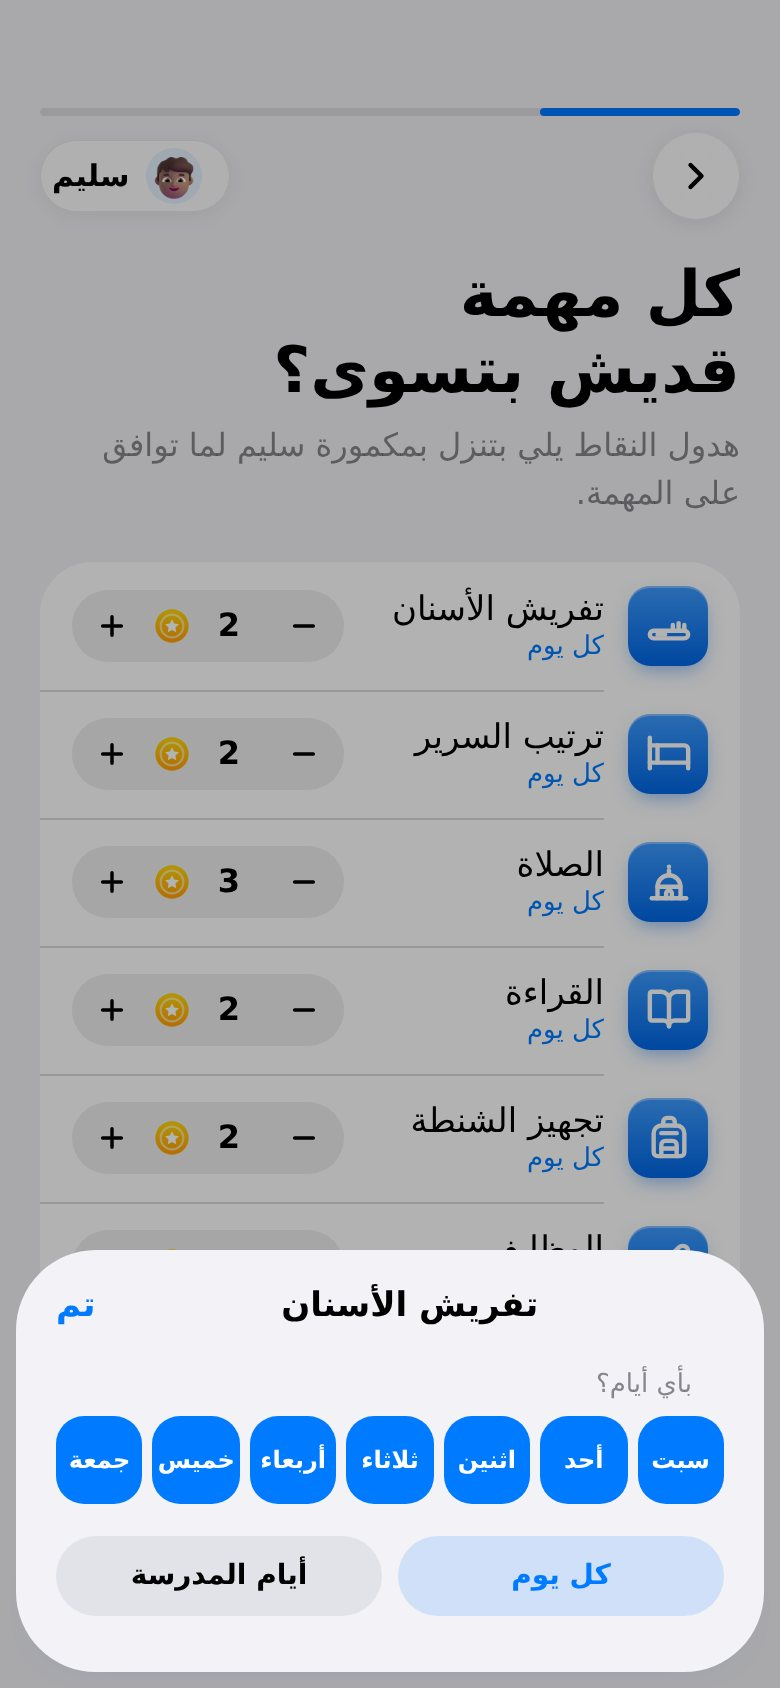
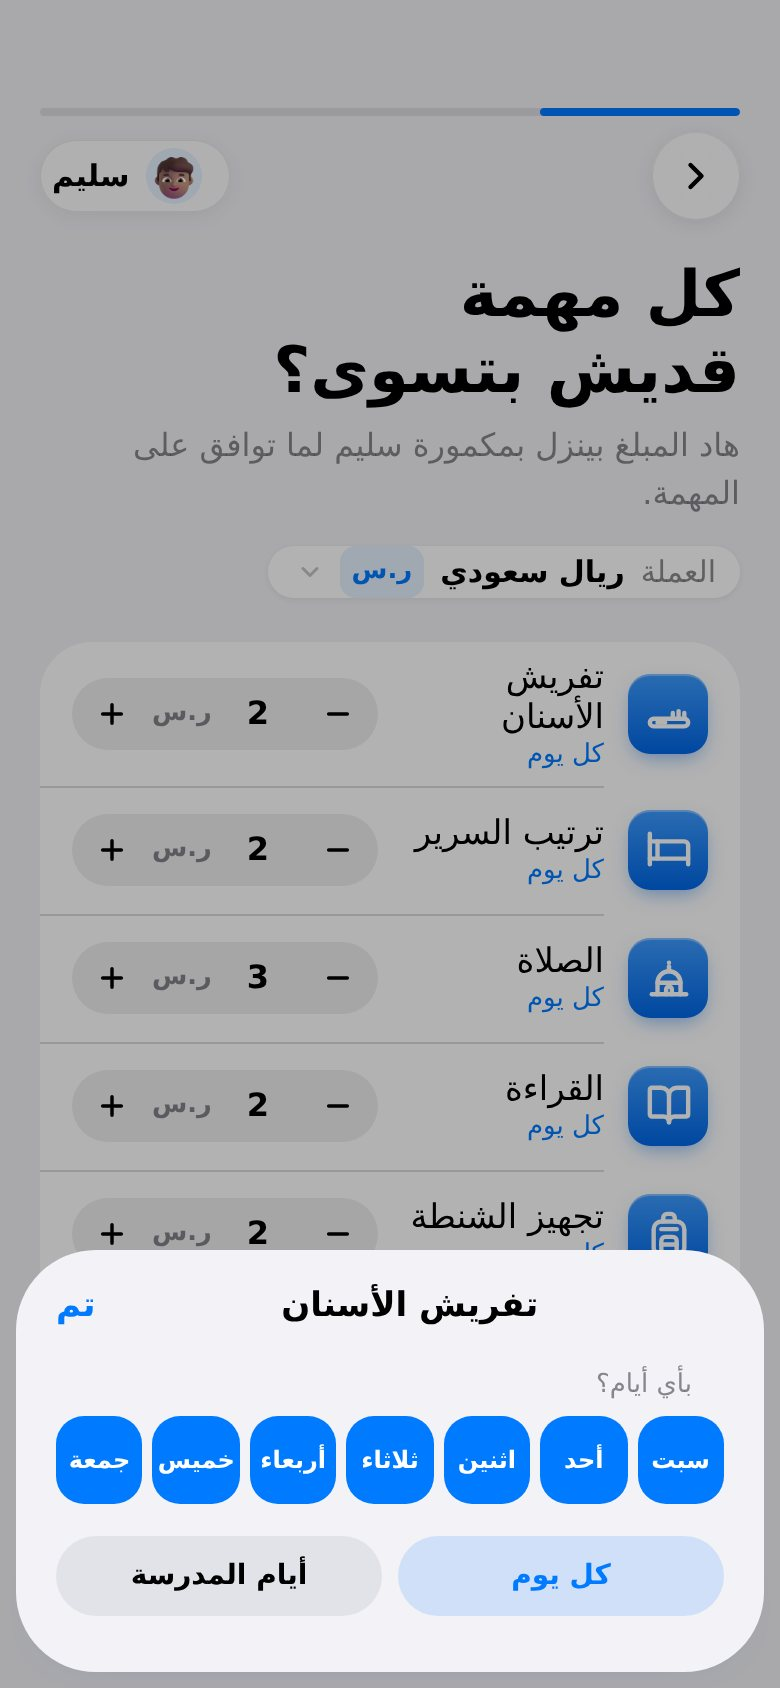
Task values are real money in the family's currency
- Currency chip on the values screen, preset from the device region;
  a sheet lists the most used currencies first (USD, SAR, AED, QAR, KWD,
  EUR, JOD, EGP, TRY), then all others, with search.
- Task values, the daily total, dream targets and the summary show the
  currency symbol instead of a points coin; decimals are allowed.
- Refreshed docs/screens.

Claude-Session: https://claude.ai/code/session_01RDAVNZzgeCwRhwwmPPkyYB

diff --git a/prototype/screens/02-tasks-setup.html b/prototype/screens/02-tasks-setup.html
@@ -114,6 +114,28 @@ h1{margin:14px 0 0;font-size:32px;font-weight:700;letter-spacing:-.01em;line-hei
 @keyframes added{0%{transform:scale(1)}40%{transform:scale(1.18)}100%{transform:scale(1)}}
 @keyframes tick{0%{transform:scale(0)}100%{transform:scale(1)}}
 .addbtn{height:44px;margin-top:12px}
+/* currency */
+.curchip{align-self:flex-start;margin-top:14px;display:flex;align-items:center;gap:8px;height:40px;padding:0 12px 0 14px;border-radius:99px;background:#fff;font-size:15px;box-shadow:0 1px 3px rgba(0,0,0,.06)}
+.curchip span{color:var(--label-2)}
+.curchip b{font-weight:600}
+.curchip .cs{min-width:28px;height:26px;padding:0 6px;border-radius:8px;background:rgba(0,122,255,.1);color:var(--blue);display:grid;place-items:center;font-weight:700;font-size:13px}
+.curchip svg{width:14px;height:14px;color:var(--label-3);transform:rotate(90deg)}
+.money{font-weight:600;font-variant-numeric:tabular-nums;white-space:nowrap}
+.money .sym,.stepper .sym{font-size:.8em;color:var(--label-2);font-weight:600}
+.bigsym{font-size:22px;font-weight:700;color:var(--label-2)}
+.search{display:flex;align-items:center;gap:8px;height:40px;padding:0 12px;border-radius:12px;background:rgba(118,118,128,.14);margin-top:4px}
+.search svg{width:16px;height:16px;color:var(--label-3)}
+.search input{flex:1;border:0;background:none;outline:none;font:17px var(--font)}
+.clist{margin-top:0}
+.crow{display:flex;align-items:center;gap:12px;width:100%;min-height:56px;padding:6px 16px;text-align:start;position:relative}
+.crow + .crow::before{content:"";position:absolute;top:0;inset-inline:64px 0;height:.5px;background:var(--sep)}
+.csym{width:36px;height:36px;border-radius:10px;background:rgba(0,122,255,.1);color:var(--blue);display:grid;place-items:center;font-weight:700;font-size:14px;flex:none}
+.crow .t{flex:1}
+.crow .t b{display:block;font-size:17px;font-weight:500}
+.crow .t span{display:block;font-size:13px;color:var(--label-2)}
+.crow .tick{color:var(--blue)}
+.crow .tick svg{width:18px;height:18px}
+.stepper .v{min-width:72px}
 /* grouped list */
 .group{margin-top:22px;background:#fff;border-radius:26px;overflow:hidden;flex:none}
 .row{display:flex;align-items:center;gap:12px;min-height:64px;padding:8px 16px;position:relative;width:100%;text-align:start}
@@ -126,7 +148,7 @@ h1{margin:14px 0 0;font-size:32px;font-weight:700;letter-spacing:-.01em;line-hei
 .stepper button:active{background:rgba(118,118,128,.2)}
 .stepper button svg{width:16px;height:16px}
 .stepper .v{min-width:56px;display:flex;align-items:center;justify-content:center;gap:3px}
-.stepper input{width:34px;border:0;background:none;outline:none;text-align:center;font:600 16px var(--font);font-variant-numeric:tabular-nums;padding:0;-moz-appearance:textfield}
+.stepper input{width:40px;border:0;background:none;outline:none;text-align:center;font:600 16px var(--font);font-variant-numeric:tabular-nums;padding:0;-moz-appearance:textfield}
 .stepper input:focus{background:#fff;border-radius:8px}
 input::-webkit-outer-spin-button,input::-webkit-inner-spin-button{-webkit-appearance:none;margin:0}
 .coin{width:18px;height:18px;flex:none}
@@ -250,7 +272,7 @@ const IC = {"bed":"<path d=\"M2 4v16\" /><path d=\"M2 8h18a2 2 0 0 1 2 2v10\" />
 IC.toothbrush='<rect x="2" y="15" width="20" height="4" rx="2"/><path d="M14 15v-3"/><path d="M17 15v-4"/><path d="M20 15v-3"/><path d="M6 17h4"/>';
 IC.mosque='<path d="M3 21h18"/><path d="M6 21v-6h12v6"/><path d="M6 15a6 6 0 0 1 12 0"/><path d="M12 9V6.5"/><path d="M12 4.5v.01"/><path d="M10.5 21v-2.5a1.5 1.5 0 0 1 3 0V21"/>';
 IC.check='<path d="M20 6 9 17l-5-5"/>'; IC.plus='<path d="M12 5v14M5 12h14"/>'; IC.minus='<path d="M5 12h14"/>';
-IC.chev='<path d="m9 18 6-6-6-6"/>'; IC.x='<path d="M18 6 6 18M6 6l12 12"/>';
+IC.chev='<path d="m9 18 6-6-6-6"/>'; IC.search='<circle cx="11" cy="11" r="7"/><path d="m20 20-3.5-3.5"/>'; IC.x='<path d="M18 6 6 18M6 6l12 12"/>';
 const ic=(n,w=2.4)=>`<svg class="i" viewBox="0 0 24 24" fill="none" stroke="currentColor" stroke-width="${w}" stroke-linecap="round" stroke-linejoin="round" aria-hidden="true">${IC[n]||''}</svg>`;
 const coin=(cls='coin')=>`<svg class="${cls}" aria-hidden="true"><use href="#coin"/></svg>`;
 const glyph=(icon,c,sm='')=>`<span class="glyph ${sm}" style="--c:${c}">${ic(icon,2.3)}</span>`;
@@ -318,6 +340,22 @@ const TASK_WORDS=[
   [/رياضة|مشي|ركض|تمارين|سباحة/,'footprints'],[/طابة|كرة|فوتبول/,'volleyball'],
 ];
 function taskIconFor(name){ for(const [re,icon] of TASK_WORDS) if(re.test(name)) return icon; return 'sparkles'; }
+const CURRENCIES=[
+  // most used by our families first
+  {c:'USD',n:'دولار أمريكي',s:'$',top:1},{c:'SAR',n:'ريال سعودي',s:'ر.س',top:1},{c:'AED',n:'درهم إماراتي',s:'د.إ',top:1},
+  {c:'QAR',n:'ريال قطري',s:'ر.ق',top:1},{c:'KWD',n:'دينار كويتي',s:'د.ك',top:1},{c:'EUR',n:'يورو',s:'€',top:1},
+  {c:'JOD',n:'دينار أردني',s:'د.أ',top:1},{c:'EGP',n:'جنيه مصري',s:'ج.م',top:1},{c:'TRY',n:'ليرة تركية',s:'₺',top:1},
+  {c:'BHD',n:'دينار بحريني',s:'د.ب'},{c:'OMR',n:'ريال عماني',s:'ر.ع'},{c:'GBP',n:'جنيه إسترليني',s:'£'},
+  {c:'MAD',n:'درهم مغربي',s:'د.م'},{c:'TND',n:'دينار تونسي',s:'د.ت'},{c:'DZD',n:'دينار جزائري',s:'د.ج'},
+  {c:'IQD',n:'دينار عراقي',s:'د.ع'},{c:'LBP',n:'ليرة لبنانية',s:'ل.ل'},{c:'SYP',n:'ليرة سورية',s:'ل.س'},
+  {c:'LYD',n:'دينار ليبي',s:'د.ل'},{c:'SDG',n:'جنيه سوداني',s:'ج.س'},{c:'YER',n:'ريال يمني',s:'ر.ي'},
+  {c:'CAD',n:'دولار كندي',s:'C$'},{c:'AUD',n:'دولار أسترالي',s:'A$'},{c:'CHF',n:'فرنك سويسري',s:'CHF'},
+  {c:'SEK',n:'كرونة سويدية',s:'kr'},{c:'MYR',n:'رينغيت ماليزي',s:'RM'},{c:'PKR',n:'روبية باكستانية',s:'₨'},{c:'INR',n:'روبية هندية',s:'₹'},
+];
+let currency='SAR';   // in the app: from the device region (Locale.current.currency), changeable here and in Settings
+const CUR=()=>CURRENCIES.find(x=>x.c===currency);
+const fmt=n=>(Math.round(n*100)/100).toString();
+const money=(n,cls='')=>`<span class="money ${cls}">${fmt(n)} <span class="sym">${esc(CUR().s)}</span></span>`;
 const DAYS=['سبت','أحد','اثنين','ثلاثاء','أربعاء','خميس','جمعة'];
 const SCHOOL=[1,1,1,1,1,0,0].map(Boolean), EVERY=Array(7).fill(true);
 
@@ -358,11 +396,12 @@ function valuesScreen(i){
   const k=kids[i];
   return `${nav(i)}
     <h1>كل مهمة قديش بتسوى؟</h1>
-    <div class="sub">هدول النقاط يلي بتنزل بمكمورة ${esc(k.name)} لما توافق على المهمة.</div>
+    <div class="sub">هاد المبلغ بينزل بمكمورة ${esc(k.name)} لما توافق على المهمة.</div>
+    <button class="curchip" data-currency><span>العملة</span><b>${esc(CUR().n)}</b><span class="cs">${esc(CUR().s)}</span>${ic('chev',2.6)}</button>
     <div class="group">${k.tasks.map((t,n)=>`<div class="row">${glyph(t.icon,t.c,'sm')}
       <button class="t" data-days="${n}" style="text-align:start"><b>${esc(t.name)}</b><span>${daysLabel(t.days)}</span></button>
-      <span class="stepper"><button data-val="${n}" data-d="-1" aria-label="أقل">${ic('minus',2.6)}</button><span class="v"><input type="number" inputmode="numeric" min="0" max="999" value="${t.value}" data-valin="${n}" aria-label="نقاط ${esc(t.name)}">${coin()}</span><button data-val="${n}" data-d="1" aria-label="أكتر">${ic('plus',2.6)}</button></span></div>`).join('')}</div>
-    <div class="total">بيقدر يجمع لحد <b id="perday">${perDay(k)}</b><b>${coin()}</b> باليوم</div>
+      <span class="stepper"><button data-val="${n}" data-d="-1" aria-label="أقل">${ic('minus',2.6)}</button><span class="v"><input type="number" inputmode="decimal" min="0" max="9999" step="any" value="${fmt(t.value)}" data-valin="${n}" aria-label="قيمة ${esc(t.name)}"><span class="sym">${esc(CUR().s)}</span></span><button data-val="${n}" data-d="1" aria-label="أكتر">${ic('plus',2.6)}</button></span></div>`).join('')}</div>
+    <div class="total">بيقدر يجمع لحد <b><span id="perday">${fmt(perDay(k))}</span> ${esc(CUR().s)}</b> باليوم</div>
     <div class="bottom"><button class="btn filled" data-next>التالي</button></div>`;
 }
 function goalScreen(i){
@@ -375,7 +414,7 @@ function goalScreen(i){
     ${g?`<div class="namerow"><label for="gname">الهدف</label><input id="gname" value="${esc(g.name)}" placeholder="مثلاً: بلاي ستيشن" data-gname autocomplete="off"><span id="gicon">${glyph(g.icon,g.c,'sm')}</span></div>
       ${g.id==='custom'?`<div class="autonote">${ic('sparkles')}بنختار الأيقونة حسب الاسم</div>`:''}
       <div class="amount"><span class="lbl">بيحتاج يجمع</span>
-        <div class="big"><button data-amt="-10" aria-label="أقل">${ic('minus',2.6)}</button><span class="n"><input type="number" inputmode="numeric" min="1" max="99999" value="${g.amount}" id="gamount" aria-label="قديش بيحتاج">${coin()}</span><button data-amt="10" aria-label="أكتر">${ic('plus',2.6)}</button></div>
+        <div class="big"><button data-amt="-10" aria-label="أقل">${ic('minus',2.6)}</button><span class="n"><input type="number" inputmode="decimal" min="1" max="999999" step="any" value="${fmt(g.amount)}" id="gamount" aria-label="قديش بيحتاج"><span class="bigsym">${esc(CUR().s)}</span></span><button data-amt="10" aria-label="أكتر">${ic('plus',2.6)}</button></div>
         <span class="eta" id="eta">${etaText(k)}</span></div>`:''}
     <div class="bottom"><button class="btn filled" data-next ${g&&!g.name.trim()?'disabled':''}>${!g?'تخطّى هلأ':i<kids.length-1?`التالي: ${esc(kids[i+1].name)}`:'خلصنا'}</button>
       ${g?'':'<div class="hint">فيك تحدده بعدين مع '+esc(k.name)+'</div>'}</div>`;
@@ -389,8 +428,8 @@ function readyScreen(){
     ${kids.map(k=>{const d=k.goal?Math.ceil(k.goal.amount/Math.max(1,perDay(k))):0;return `<article class="brief">
       <header>${kav(k,'big')}<div class="hn"><b>${esc(k.name)}</b><span>${k.age} ${k.age>10?'سنة':'سنين'} · ${k.tasks.length} مهام باليوم</span></div>
         ${approved?`<span class="ok-badge">${ic('check',3)}معتمد</span>`:`<button class="edit" data-edit="${kids.indexOf(k)}">تعديل</button>`}</header>
-      <ul>${k.tasks.map(t=>`<li>${glyph(t.icon,t.c,'sm')}<span class="tn">${esc(t.name)}</span><span class="pts">${t.value}${coin()}</span></li>`).join('')}</ul>
-      ${k.goal?`<div class="dream">${glyph(k.goal.icon,k.goal.c,'sm')}<div><b>بيحلم بـ${esc(k.goal.name||'هدفه')}</b><span>${k.goal.amount} نقطة · تقريباً ${d} ${d>2&&d<11?'أيام':'يوم'}</span></div></div>`
+      <ul>${k.tasks.map(t=>`<li>${glyph(t.icon,t.c,'sm')}<span class="tn">${esc(t.name)}</span><span class="pts">${money(t.value)}</span></li>`).join('')}</ul>
+      ${k.goal?`<div class="dream">${glyph(k.goal.icon,k.goal.c,'sm')}<div><b>بيحلم بـ${esc(k.goal.name||'هدفه')}</b><span>${fmt(k.goal.amount)} ${esc(CUR().s)} · تقريباً ${d} ${d>2&&d<11?'أيام':'يوم'}</span></div></div>`
         :`<div class="dream muted"><div><b>لسا ما في حلم</b><span>حدّدوه سوا من الصفحة الرئيسية</span></div></div>`}
     </article>`}).join('')}
     <div class="bottom">${approved?`<button class="btn filled">للصفحة الرئيسية</button>`:`<button class="btn filled" data-approve>اعتماد المهام</button><div class="hint">بتقدر تعدّل أي شي بعدين من الإعدادات</div>`}</div>`;
@@ -434,6 +473,21 @@ function addSheet(){
     <div class="autonote">${ic('sparkles')}بنختار الأيقونة حسب الاسم</div>
     <button class="btn filled" data-addtask ${d.name.trim()?'':'disabled'}>إضافة «${esc(d.name.trim()||'المهمة')}»</button>`);
 }
+function currencySheet(q=''){
+  const norm=x=>x.replace(/[أإآ]/g,'ا').toLowerCase();
+  const hit=x=>!q||norm(x.n).includes(norm(q))||x.c.toLowerCase().includes(q.toLowerCase());
+  const row=x=>`<button class="crow" data-cur="${x.c}" aria-pressed="${x.c===currency}"><span class="csym">${esc(x.s)}</span><span class="t"><b>${esc(x.n)}</b><span>${x.c}</span></span>${x.c===currency?`<span class="tick">${ic('check',3)}</span>`:''}</button>`;
+  const top=CURRENCIES.filter(x=>x.top&&hit(x)), rest=CURRENCIES.filter(x=>!x.top&&hit(x)).sort((a,b)=>a.n.localeCompare(b.n,'ar'));
+  const body=`${top.length?`<div class="slabel">الأكثر استخداماً</div><div class="group clist">${top.map(row).join('')}</div>`:''}
+    ${rest.length?`<div class="slabel">كل العملات</div><div class="group clist">${rest.map(row).join('')}</div>`:''}
+    ${!top.length&&!rest.length?'<div class="empty">ما لقينا عملة بهالاسم</div>':''}`;
+  const open=$('#sheets .sheet.show');
+  if(open&&open.querySelector('#clist')){ open.querySelector('#clist').innerHTML=body; return }
+  openSheet(`<div class="ksbar"><span></span><b>العملة</b><button class="done" data-close>تم</button></div>
+    <div class="search">${ic('search')}<input id="csearch" placeholder="ابحث: ريال، دولار، EUR…" autocomplete="off"></div>
+    <div class="autonote" style="padding-top:10px">اخترناها حسب منطقة جهازك. هي وحدة لكل العيلة.</div>
+    <div id="clist">${body}</div>`);
+}
 function daysSheet(n){
   const t=kids[FLOW[at][1]].tasks[n], d=t.days;
   openSheet(`<div class="ksbar"><span></span><b>${esc(t.name)}</b><button class="done" data-close>تم</button></div>
@@ -459,7 +513,9 @@ document.addEventListener('click',e=>{
     else { const src=[...SUGGEST,...k.custom].find(x=>x.id===id); k.tasks.push({...src,value:2,days:[...EVERY]}); lastAdded=id }
     addSheet(); return }
   if('addtask' in t.dataset){ if(t.disabled) return; const c={id:'c'+Date.now(),name:draft.name.trim(),icon:taskIconFor(draft.name),c:TASK}; k.custom.push(c); k.tasks.push({...c,value:2,days:[...EVERY]}); draft={name:'',icon:'sparkles'}; addSheet(); return }
-  if(t.dataset.val!=null){ const x=k.tasks[+t.dataset.val]; x.value=Math.max(0,Math.min(999,x.value+(+t.dataset.d))); refresh(); return }
+  if(t.dataset.val!=null){ const x=k.tasks[+t.dataset.val]; x.value=Math.max(0,Math.min(9999,Math.round((x.value+(+t.dataset.d))*100)/100)); refresh(); return }
+  if('currency' in t.dataset){ currencySheet(); return }
+  if(t.dataset.cur){ currency=t.dataset.cur; currencySheet($('#csearch')?$('#csearch').value:''); return }
   if(t.dataset.days!=null){ daysSheet(+t.dataset.days); return }
   if(t.dataset.day!=null){ const x=k.tasks[+t.dataset.t]; x.days[+t.dataset.day]=!x.days[+t.dataset.day]; if(!x.days.some(Boolean)) x.days[+t.dataset.day]=true; daysSheet(+t.dataset.t); return }
   if(t.dataset.preset){ const x=k.tasks[+t.dataset.t]; x.days=[...(t.dataset.preset==='every'?EVERY:SCHOOL)]; daysSheet(+t.dataset.t); return }
@@ -469,15 +525,16 @@ document.addEventListener('click',e=>{
 document.addEventListener('input',e=>{
   const el=e.target, k=kids[FLOW[at][1]];
   if(el.id==='tname'){ draft.name=el.value; draft.icon=taskIconFor(el.value); const tg=$('#tglyph'); if(tg) tg.innerHTML=ic(draft.icon,2.3); const b=document.querySelector('[data-addtask]'); if(b){ b.disabled=!draft.name.trim(); b.textContent=`إضافة «${draft.name.trim()||'المهمة'}»` } }
-  if(el.dataset.valin!=null){ const v=parseInt(el.value,10); k.tasks[+el.dataset.valin].value=isNaN(v)?0:Math.max(0,Math.min(999,v)); $('#perday').textContent=perDay(k) }
+  if(el.id==='csearch'){ currencySheet(el.value); return }
+  if(el.dataset.valin!=null){ const v=parseFloat(el.value); k.tasks[+el.dataset.valin].value=isNaN(v)?0:Math.max(0,Math.min(9999,v)); $('#perday').textContent=fmt(perDay(k)) }
   if(el.dataset.gname!=null){ k.goal.name=el.value;
     if(k.goal.id==='custom'){ Object.assign(k.goal,iconFor(el.value)); $('#gicon').innerHTML=glyph(k.goal.icon,k.goal.c,'sm') }
     const nb=document.querySelector('[data-next]'); if(nb) nb.disabled=!el.value.trim() }
-  if(el.id==='gamount'){ const v=parseInt(el.value,10); k.goal.amount=isNaN(v)||v<1?1:Math.min(99999,v); $('#eta').innerHTML=etaText(k) }
+  if(el.id==='gamount'){ const v=parseFloat(el.value); k.goal.amount=isNaN(v)||v<=0?1:Math.min(999999,v); $('#eta').innerHTML=etaText(k) }
 });
 /* clean up a typed number when leaving the field */
 document.addEventListener('focusout',e=>{ const el=e.target, k=kids[FLOW[at][1]]; if(!k) return;
-  if(el.dataset.valin!=null) el.value=k.tasks[+el.dataset.valin].value;
+  if(el.dataset.valin!=null) el.value=fmt(k.tasks[+el.dataset.valin].value);
   if(el.id==='gamount') el.value=k.goal.amount; });
 $('#scrim').addEventListener('click',()=>{ closeSheet(); if(FLOW[at][0]==='values') refresh() });
 render(1);
